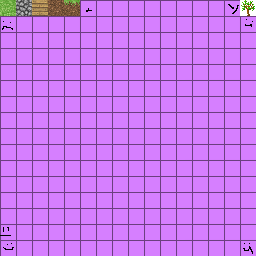
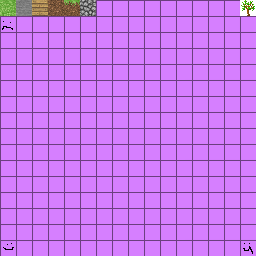
crosshair, sky color, cobblestone, grass logic

diff --git a/main.py b/main.py
@@ -22,6 +22,10 @@ if __name__ == "__main__":
     self = Self()
     
     self.hitResult = None 
+    self.tessellator = Tessellator()
+    
+    self.crosshair_entity_1 = None
+    self.crosshair_entity_2 = None
     
     self.level = Level(128, 128, 64)
     self.levelRenderer = LevelRenderer(self.level)
@@ -97,6 +101,16 @@ if __name__ == "__main__":
     
 
     def tick():
+        if (held_keys['enter']):
+            self.level.save()
+        elif (held_keys['1']): self.current_block = TileType.STONE.id
+        elif (held_keys['2']): self.current_block = TileType.DIRT.id
+        elif (held_keys['3']): self.current_block = TileType.PLANKS.id
+        elif (held_keys['4']): self.current_block = TileType.COBBLESTONE.id
+        elif (held_keys['6']): self.current_block = TileType.BUSH.id
+        
+        self.level.onTick()
+        
         for human in self.humans:
             human.tick()
         
@@ -136,13 +150,6 @@ if __name__ == "__main__":
             self.level.setTile(x, y, z, self.current_block)
         elif (not mouse.left):
             self.is_mouse_left = False
-            
-        if (held_keys['enter']):
-            self.level.save()
-        elif (held_keys['1']): self.current_block = TileType.STONE.id
-        elif (held_keys['2']): self.current_block = TileType.GRASS.id
-        elif (held_keys['3']): self.current_block = TileType.PLANKS.id
-        elif (held_keys['6']): self.current_block = TileType.BUSH.id
         
         moveCameraToPlayer(partialTicks)
         
@@ -154,6 +161,42 @@ if __name__ == "__main__":
         self.levelRenderer.render(1)
         
         self.levelRenderer.renderHit(self.hitResult)
+        
+        drawGui()
+        
+    def drawGui():
+        if self.crosshair_entity_1:
+            destroy(self.crosshair_entity_1)
+        if self.crosshair_entity_2:
+            destroy(self.crosshair_entity_2)
+        
+        width, height = window.size
+        
+        screenWidth: int = int(width * 240 / height)
+        screenHeight: int = int(height * 240 / height)
+        
+        x = int(screenWidth / 2)
+        y = int(screenHeight / 2)
+        
+        # crosshair
+        self.tessellator.clear()
+        size = 0.01
+
+        self.tessellator.vertex(0, size, 0)
+        self.tessellator.vertex(0, -size, 0)
+        self.crosshair_entity_1 = self.tessellator.flush_lines()
+        
+        if self.crosshair_entity_1:
+            self.crosshair_entity_1.parent = camera.ui
+            self.crosshair_entity_1.color = color.white
+        
+        self.tessellator.vertex(size, 0, 0)
+        self.tessellator.vertex(-size, 0, 0)
+        self.crosshair_entity_2 = self.tessellator.flush_lines()
+        
+        if self.crosshair_entity_2:
+            self.crosshair_entity_2.parent = camera.ui
+            self.crosshair_entity_2.color = color.white
 
     def update():
         global frames, lastTime

diff --git a/src/level/Level.py b/src/level/Level.py
@@ -6,6 +6,7 @@ import numpy as np
 from src.level.LeveListener import LevelListener
 from src.level.generator.NoiseFilter import NoiseFilter
 import src.level.TileType as TileType
+from src.level.Util import nextInt
 import pickle
 
 
@@ -36,7 +37,7 @@ class Level:
         
     def generate_height_map(self, width, height):
 
-        noise_generator = NoiseFilter(seed=12345)
+        noise_generator = NoiseFilter(seed=random.randint(0, 12345))
         height_map = [[0 for _ in range(height)] for _ in range(width)]
 
         for x in range(width):
@@ -62,7 +63,7 @@ class Level:
                     elif y == world_height:
                         self.blocks[index] = TileType.GRASS.id
                     else:
-                        self.blocks[index] = 0 # Воздух
+                        self.blocks[index] = 0 # Air
                     
     def generate_index(self, x, y, z):
         return x + y * self.width + z * self.width * self.depth
@@ -105,6 +106,20 @@ class Level:
                     
                     for listener in self.levelListeners:
                         listener.lightColumnChanged(x, z, minTileChangeY, maxTileChangeY)
+                        
+    def onTick(self):
+        totalTiles: int = self.width * self.height * self.depth
+        
+        ticks: int = int(totalTiles / 400)
+        
+        for i in range(ticks):
+            x = nextInt(self.width)
+            y = nextInt(self.depth)
+            z = nextInt(self.height)
+            
+            tile = Tile.TILES[self.getTile(x, y, z)]
+            if (tile):
+                tile.onTick(self, x, y, z)
             
     def isSolidTile(self, x, y, z):
         tile = Tile.TILES[self.getTile(x, y, z)]

diff --git a/src/render/Tessellator.py b/src/render/Tessellator.py
@@ -106,19 +106,13 @@ class Tessellator:
         self.b = b
             
     def flush(self):
-        # print(f"Tessellator Flush! Vertices: {self.vertices}, Quads: {self.vertices // 4}, vertexes: {len(self.vertexBuffer)}")
-        
         if not self.vertexBuffer:
-            # print("Предупреждение: Попытка отрисовки без вершин.")
             return None
         
-
         triangles = []
-        for i in range(0, self.vertices, 4):
-
-            triangles.extend([i, i + 1, i + 2, i, i + 2, i + 3])
         
-
+        for i in range(0, self.vertices, 4):
+            triangles.extend([i, i + 1, i + 2, i, i + 2, i + 3])
         entity = Entity(
             model=Mesh(
                 vertices=list(self.vertexBuffer),
@@ -129,10 +123,21 @@ class Tessellator:
             texture=self.atlas,
             collider=self.collider
         )
+        self.clear()
+        return entity
+    
+    def flush_lines(self):
+        if not self.vertexBuffer:
+            return None
+        
+        entity = Entity(
+            model=Mesh(
+                vertices=list(self.vertexBuffer),
+                mode='line'
+            )
+        )
         
         self.clear()
-        
-        
         return entity
     
         

diff --git a/src/level/tile/Bush.py b/src/level/tile/Bush.py
@@ -18,15 +18,11 @@ class Bush(Tile):
         
         tile_size = 1.0 / 16.0 
         
-        # Вычисляем колонку и ряд тайла
         col = textureID % 16
         row = textureID // 16
         
-        # Вычисляем UV-координаты
         minU = col * tile_size
         maxU = minU + tile_size
-        # V-координаты в OpenGL и многих движках идут сверху вниз,
-        # поэтому мы вычитаем из 1.0
         minV = 1.0 - (row * tile_size) - tile_size
         maxV = 1.0 - (row * tile_size)
         
@@ -47,7 +43,6 @@ class Bush(Tile):
             tessellator.vertexUV(x2, y + 0, z2, maxU, minV)
             tessellator.vertexUV(x1, y + 0, z1, minU, minV)
             
-            # Вторая плоскость (в обратную сторону)
             tessellator.vertexUV(x2, y + 1, z2, maxU, maxV)
             tessellator.vertexUV(x1, y + 1, z1, minU, maxV)
             tessellator.vertexUV(x1, y + 0, z1, minU, minV)

diff --git a/src/level/tile/GrassTile.py b/src/level/tile/GrassTile.py
@@ -1,4 +1,6 @@
 from src.level.tile.Tile import Tile
+from src.level.Util import nextInt
+import src.level.TileType as TileType
 
 class GrassTile(Tile):
     
@@ -9,3 +11,17 @@ class GrassTile(Tile):
         
     def getTexture(self, face):
         return 0 if face == 1 else 3 if face == 0 else 4
+    
+    def onTick(self, level, x, y, z):
+        if (level.isLit(x, y, z)):
+            
+            for i in range(4):
+                targetX = x + nextInt(3) - 1
+                targetY = y + nextInt(5) - 3
+                targetZ = z + nextInt(3) - 1
+                
+                
+                if (level.getTile(targetX, targetY, targetZ) == TileType.DIRT.id and level.isLit(targetX, targetY, targetZ)):
+                    level.setTile(targetX, targetY, targetZ, TileType.GRASS.id)
+        else:
+            level.setTile(x, y, z, TileType.DIRT.id)

diff --git a/src/level/generator/NoiseFilter.py b/src/level/generator/NoiseFilter.py
@@ -9,7 +9,6 @@ class NoiseFilter:
     def _get_raw_noise(self, x, z):
         n = int(x) * 57 + int(z) * 131 + self.seed
         n = (n << 13) ^ n
-        # Приводим к диапазону [-1, 1]
         return (1.0 - ((n * (n * n * 15731 + 789221) + 1376312589) & 0x7fffffff) / 1073741824.0)
 
     def _get_smooth_noise(self, x, z):

diff --git a/src/level/tile/Tile.py b/src/level/tile/Tile.py
@@ -124,3 +124,6 @@ class Tile:
     
     def isSolid(self):
         return True
+    
+    def onTick(self, level, x, y, z):
+        pass

diff --git a/src/level/Util.py b/src/level/Util.py
@@ -1,0 +1,6 @@
+import math
+import random as rnd
+
+
+def nextInt(max: int):
+    return math.floor(rnd.random() * max)

diff --git a/src/level/TileType.py b/src/level/TileType.py
@@ -8,3 +8,4 @@ PLANKS = Tile(3, 2)
 DIRT = Tile(4, 3)
 GRASS = GrassTile(5)
 BUSH = Bush(6)
+COBBLESTONE = Tile(7, 5)
